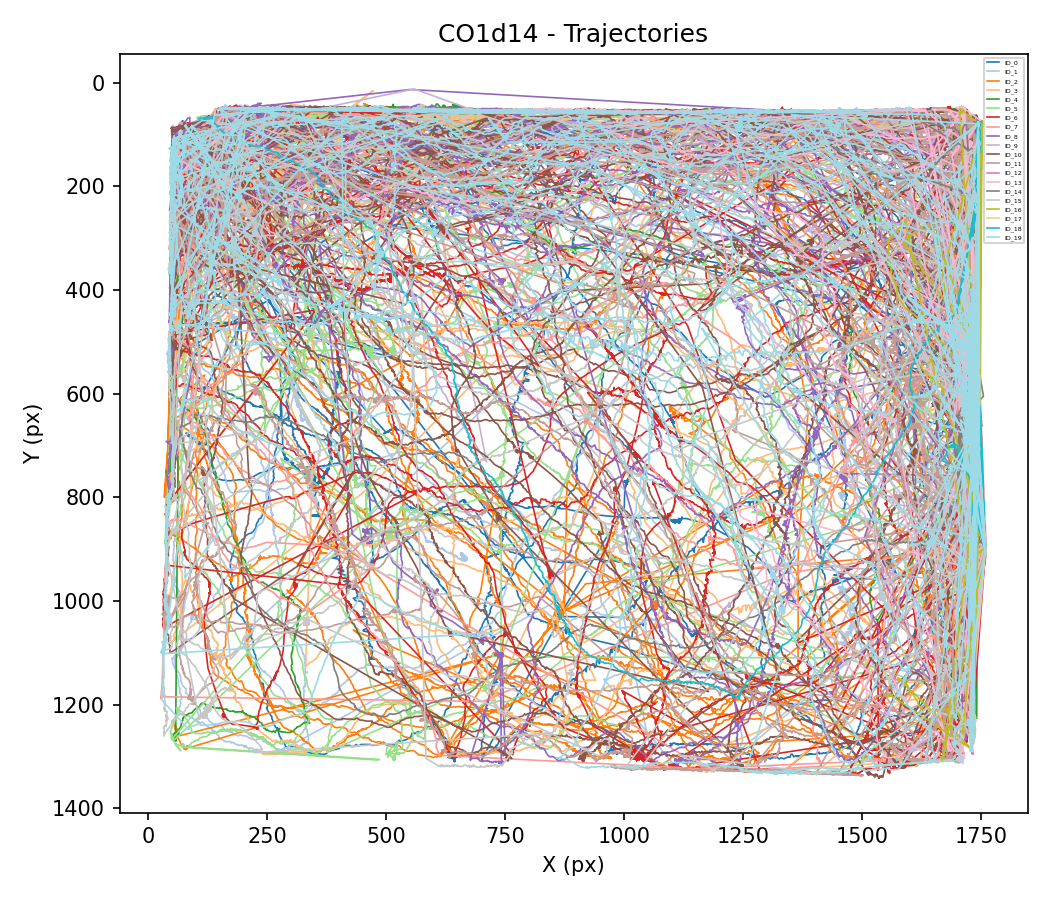
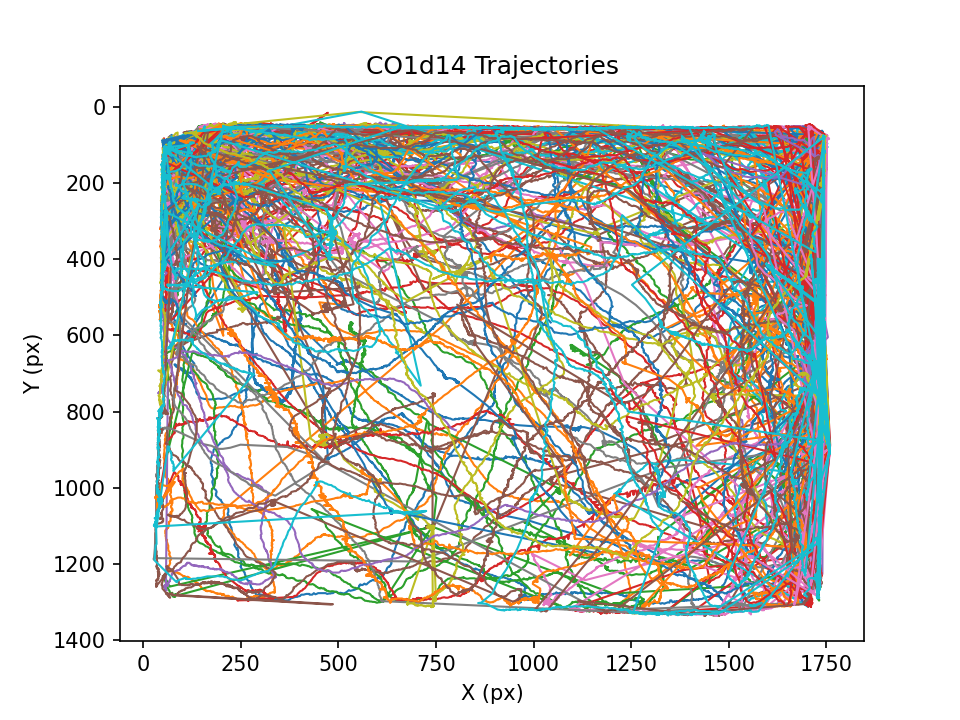
fixed graphs got Calit Results

diff --git a/src/2D_Detection/UROPgraphs.py b/src/2D_Detection/UROPgraphs.py
@@ -86,16 +86,16 @@ for vid_name in test_names:
     speed_info_per_vid[vid_name] = (seconds, list(frame_avg_speed))
 
     # trajectories
-    # colors = plt.cm.tab10.colors
-    # for i, col in enumerate(id_cols):
-    #     xy = coords[col]
-    #     plt.plot(xy["x"], xy["y"], color=colors[i % 10], lw=1, label=col)
-    # plt.gca().invert_yaxis()
-    # plt.title(f"{vid_name.split('.mov')[0]} Trajectories")
-    # plt.xlabel("X (px)")
-    # plt.ylabel("Y (px)")
-    # plt.savefig(f'./WatershedAlgorithm/CalitPlotswUROPVids/{vid_name}_trajectory.png', dpi=150)
-    # plt.close()
+    colors = plt.cm.tab10.colors
+    for i, col in enumerate(id_cols):
+        xy = coords[col]
+        plt.plot(xy["x"], xy["y"], color=colors[i % 10], lw=1, label=col)
+    plt.gca().invert_yaxis()
+    plt.title(f"{vid_name.split('.mov')[0]} Trajectories")
+    plt.xlabel("X (px)")
+    plt.ylabel("Y (px)")
+    plt.savefig(f'./WatershedAlgorithm/CalitPlotswUROPVids/{vid_name}_trajectory.png', dpi=150)
+    plt.close()
 plt.close()
 # raw speed
 vid_names = list(speed_info_per_vid.keys())

diff --git a/src/2D_Detection/graphs_calit_vids.py b/src/2D_Detection/graphs_calit_vids.py
@@ -98,7 +98,7 @@ for vid_name in test_names:
     plt.title(f"{vid_name.split('.mov')[0]} Trajectories")
     plt.xlabel("X (px)")
     plt.ylabel("Y (px)")
-    plt.savefig(f'./WatershedAlgorithm/CalitPlotswUROPVids/{vid_name}_trajectory.png', dpi=150)
+    plt.savefig(f'./WatershedAlgorithm/CalitPlots/nVel2/{vid_name}_trajectory.png', dpi=150)
     plt.close()
 plt.close()
 # raw speed
